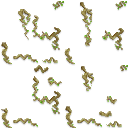
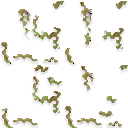
improved textures

diff --git a/scripts/merge.py b/scripts/merge.py
@@ -8,19 +8,26 @@ def adjust(nodes: list, offset_x: int) -> None:
         adjust(node.get("children", []), offset_x)
 
 
-def round32(x: int) -> int:
-    return (x + 31) // 32 * 32
-
 def merge_models(
-    model_a: dict, model_b: dict, texture_a: Image.Image, texture_b: Image.Image
+        model_a: dict, model_b: dict, texture_a: Image.Image, texture_b: Image.Image
 ) -> tuple[dict, Image.Image]:
     model_a["nodes"].extend(model_b["nodes"])
 
     h = max(texture_a.height, texture_b.height)
-    canvas = Image.new("RGBA", (round32(texture_a.width + texture_b.width), round32(h)))
+    canvas = Image.new("RGBA", (texture_a.width + texture_b.width, h))
     canvas.paste(texture_a, (0, 0))
     canvas.paste(texture_b, (texture_a.width, 0))
 
     adjust(model_b["nodes"], texture_a.width)
 
     return model_a, canvas
+
+
+def round32(x: int) -> int:
+    return (x + 31) // 32 * 32
+
+
+def fix_size(texture: Image.Image) -> Image.Image:
+    canvas = Image.new("RGBA", (round32(texture.width), round32(texture.height)))
+    canvas.paste(texture, (0, 0))
+    return canvas

diff --git a/scripts/generate.py b/scripts/generate.py
@@ -11,7 +11,7 @@ from tqdm.auto import tqdm
 from animations import load_animation, apply_animation
 from bounding_box import generate_hitbox, append_box_nodes, get_volume, get_bounding_box
 from config import load_config
-from merge import merge_models
+from merge import merge_models, fix_size
 from texture import generate_image, resize_tiled_texture
 
 
@@ -176,6 +176,8 @@ def main(debug: bool = False, filter_quads: bool = False, clear: bool = False):
                 )
 
                 model, texture = merge_models(model, socket, texture, socket_texture)
+
+            texture = fix_size(texture)
 
             # Generate hitbox
             boxes = generate_hitbox(model)

diff --git a/changelog.md b/changelog.md
@@ -1,6 +1,7 @@
 # 1.0.1
 
 * Fixed warnings
+* Improved mossy and gold textures
 
 # 1.0.0
 